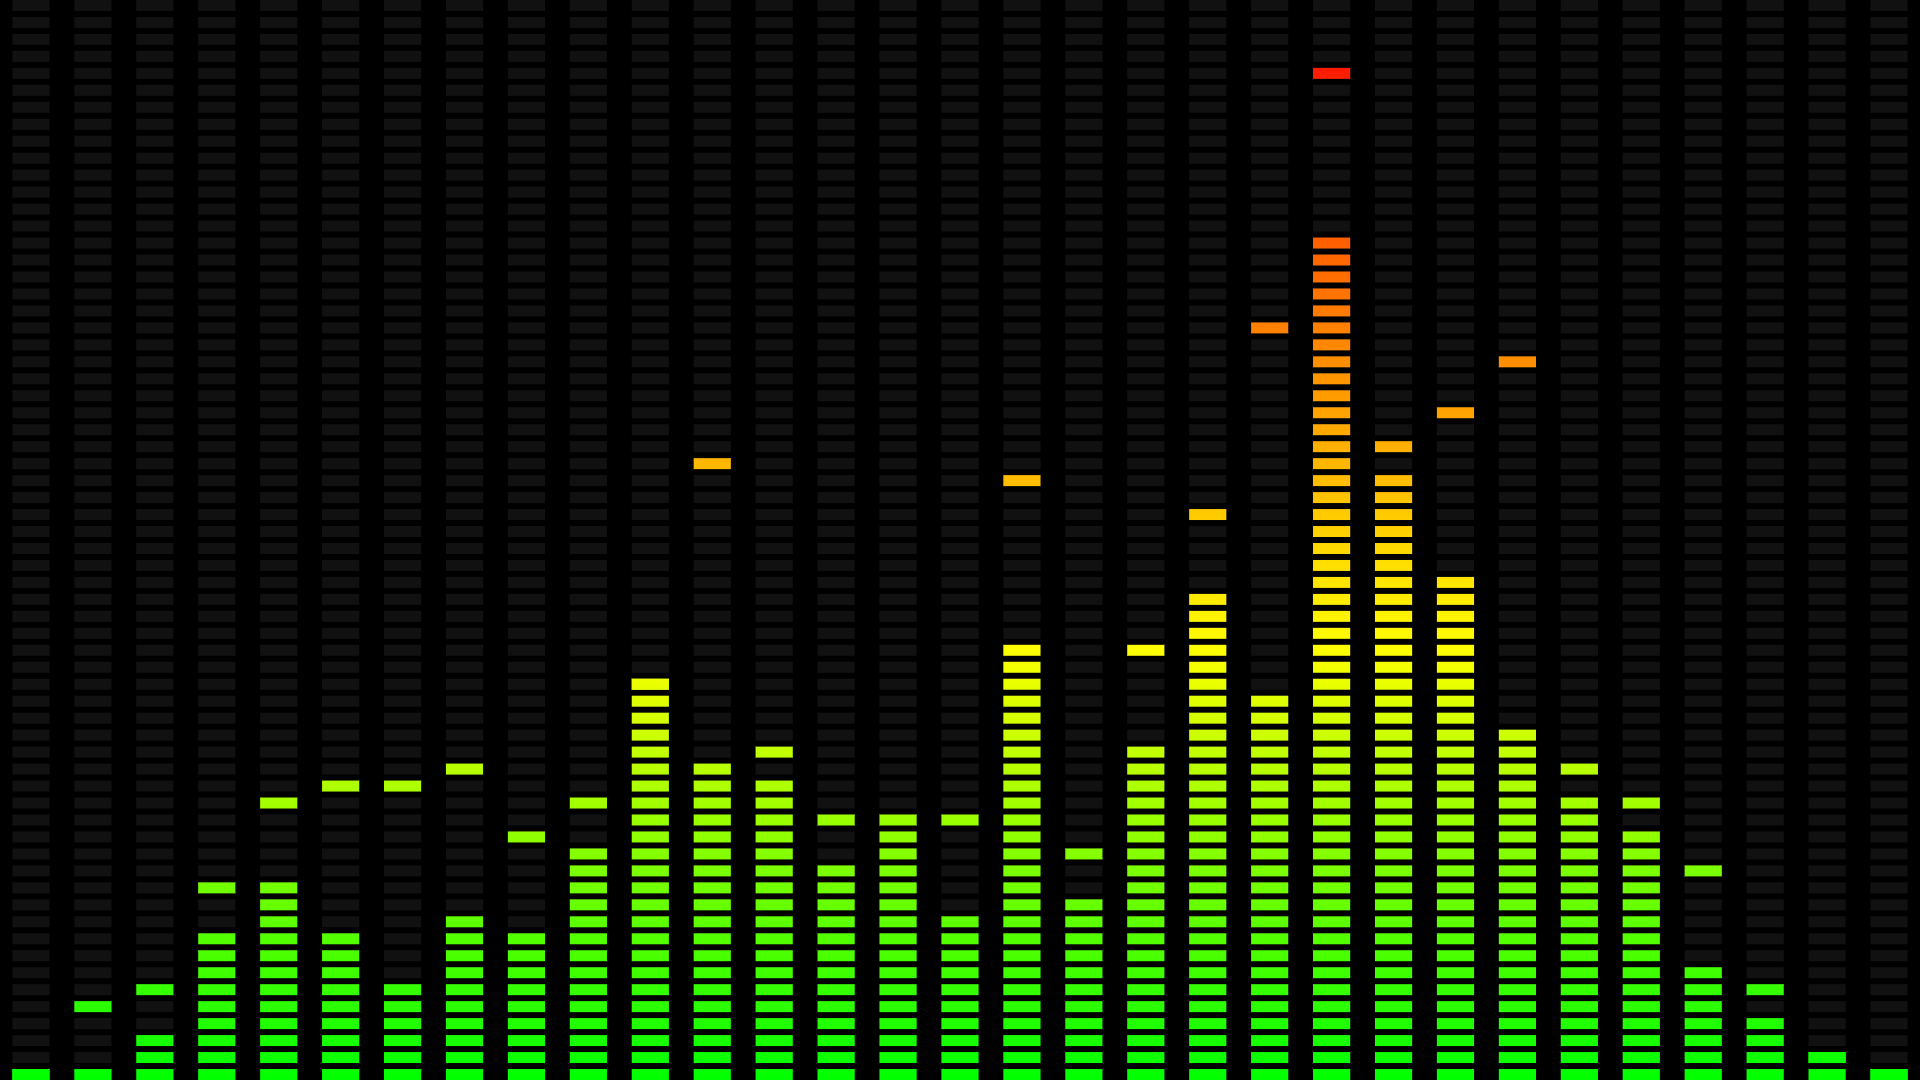
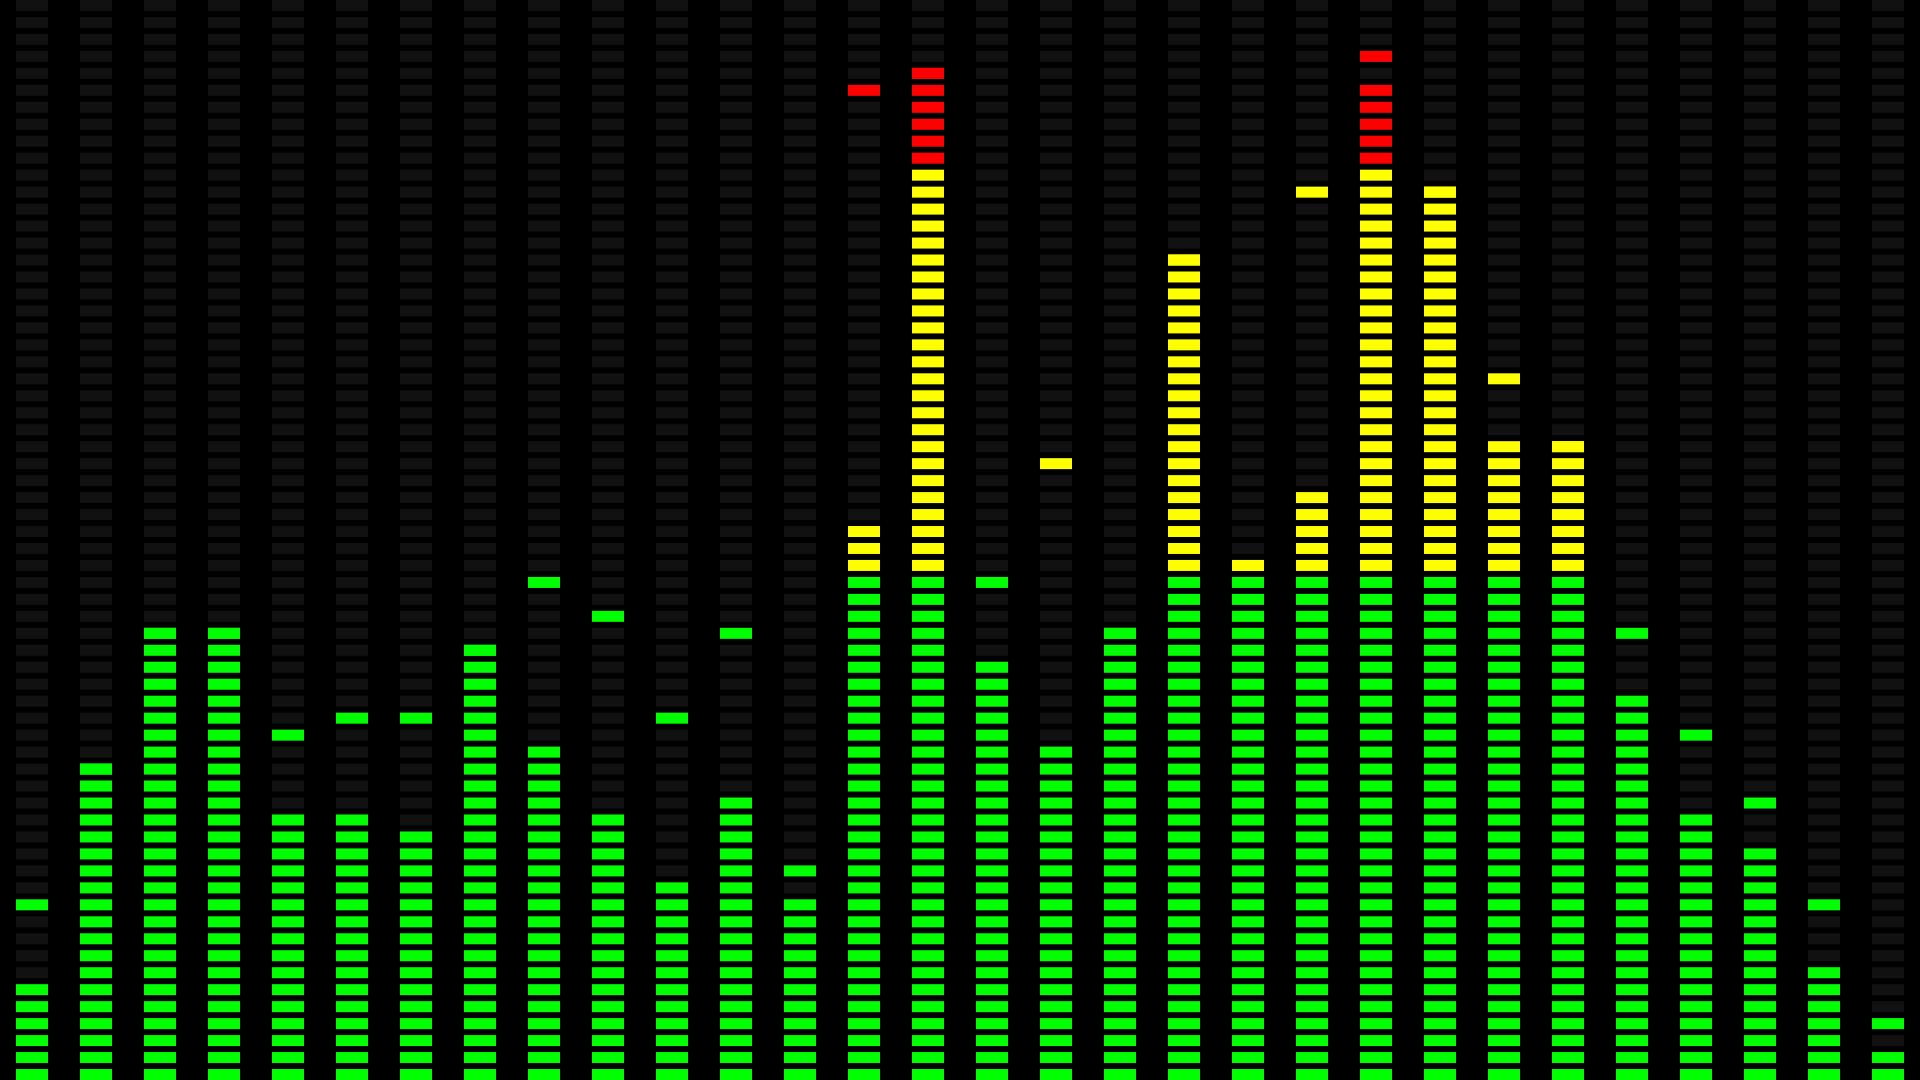
Update demos.

diff --git a/demo/fluid.js b/demo/fluid.js
@@ -21,7 +21,7 @@ const presets = [
 			mode: 6,
 			alphaBars: false,
 			ansiBands: true,
-			barSpace: .75,
+			barSpace: .5,
 			channelLayout: 'single',
 			colorMode: 'gradient',
 			frequencyScale: 'log',
@@ -234,7 +234,7 @@ try {
 			source: audioEl, // main audio source is the HTML <audio> element
 			onCanvasDraw: drawCallback, // callback function used to add custom features for this demo
 			onCanvasResize: ( reason, instance ) => {
-				console.log( `[${reason}] canvas size is: ${instance.canvas.width} x ${instance.canvas.height}` );
+				console.log( `onCanvasResize called. Reason: ${reason}\nCanvas size is: ${instance.canvas.width} x ${instance.canvas.height}` );
 				if ( reason != 'create' )
 					updateUI();
 			}

diff --git a/demo/index.html b/demo/index.html
@@ -47,7 +47,7 @@
     <h2><a href="fluid.html">▶ Fluid layout demo</a></h2>
 
     <ul>
-        <li>Shows <em>audioMotion-analyzer</em> in a fluid layout context - resize the window and see how the analyzer adjusts itself;</li>
+        <li>Shows <em>audioMotion-analyzer</em> in a fluid layout context - resize the window and the analyzer will adjust itself for best resolution (check browser console for events);</li>
         <li>Experiment with all configuration options in real time;
         <li>Test tones are generated by a frequency oscillator node additionally connected to the analyzer;</li>
         <li>A callback function is used to add custom features to the analyzer canvas.</li>

diff --git a/demo/overlay.js b/demo/overlay.js
@@ -22,6 +22,7 @@ const presets = [
 			mode: 3,
 			barSpace: .5,
 			bgAlpha: .7,
+			colorMode: 'gradient',
 			gradient: 'classic',
 			ledBars: true,
 			lumiBars: false,
@@ -81,6 +82,8 @@ const presets = [
 			mode: 5,
 			barSpace: .25,
 			bgAlpha: .5,
+			colorMode: 'bar-level',
+			gradient: 'prism',
 			ledBars: false,
 			lumiBars: false,
 			maxFreq: 16000,
@@ -90,7 +93,8 @@ const presets = [
 			reflexRatio: .3,
 			showBgColor: false,
 			showPeaks: true,
-			overlay: true
+			overlay: true,
+			outlineBars: false
 		}
 	}
 ];
